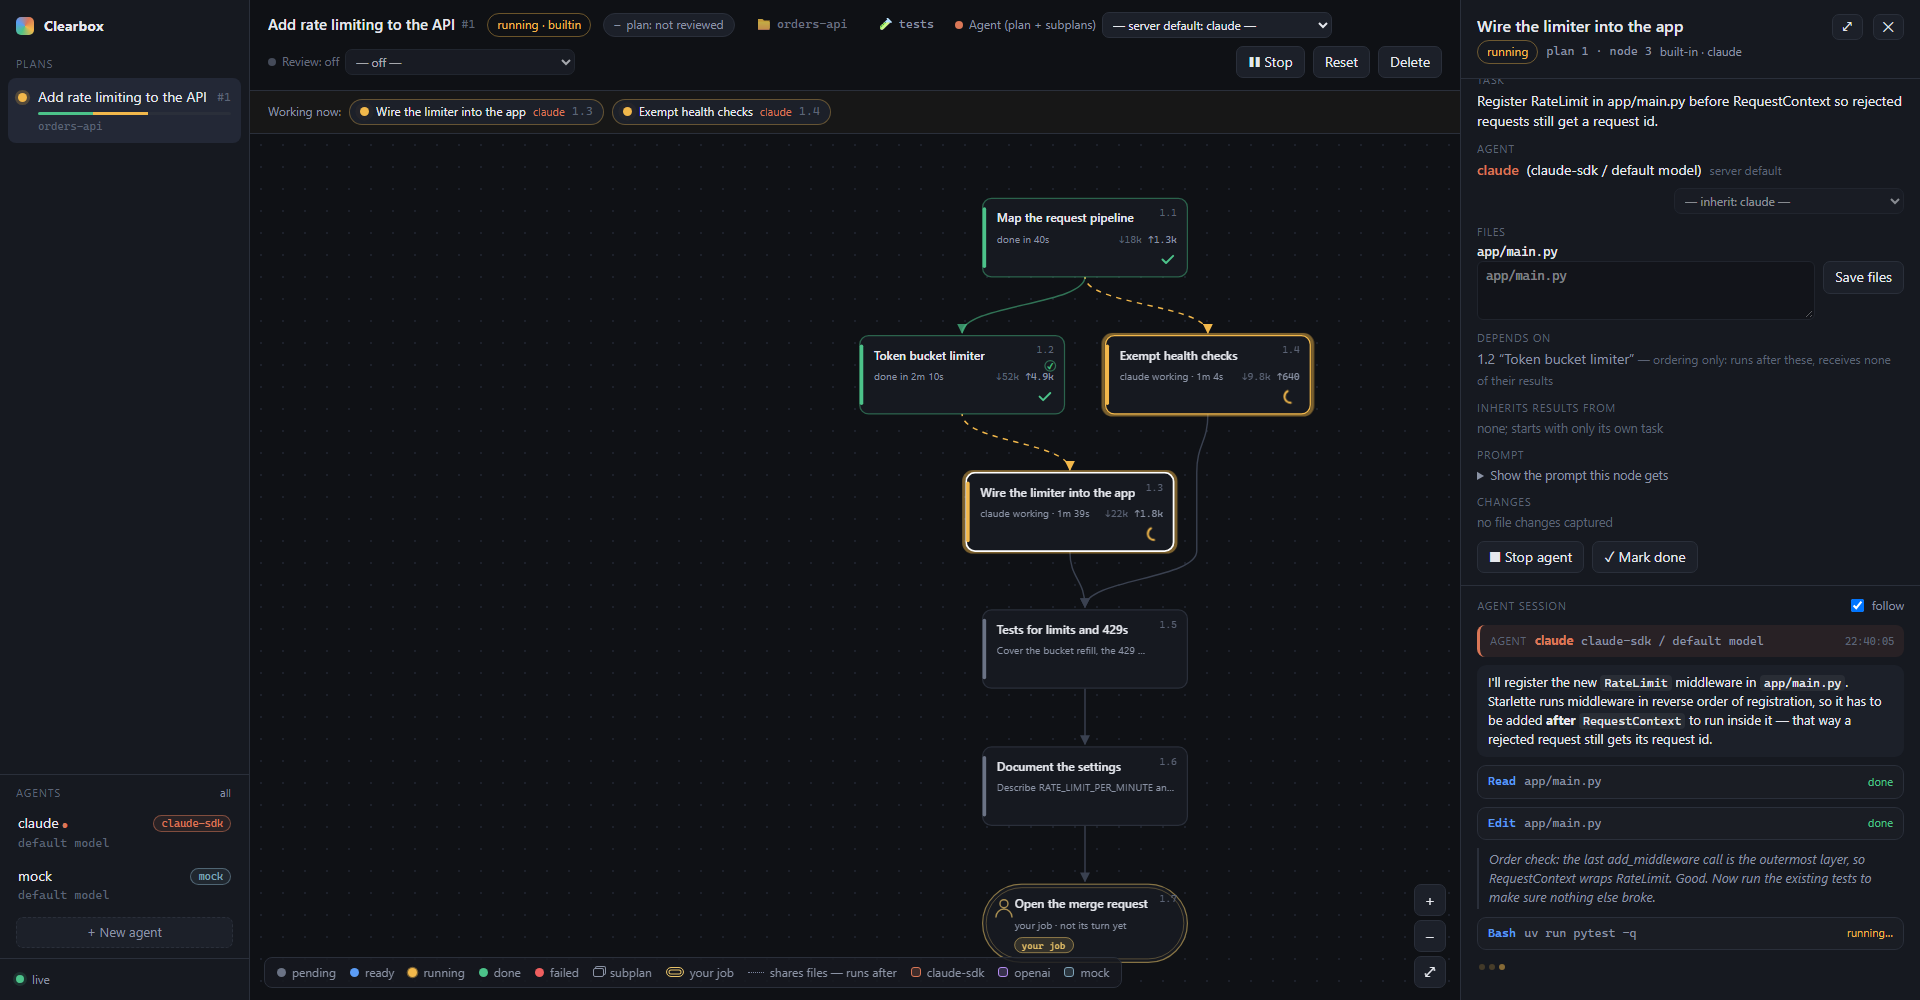
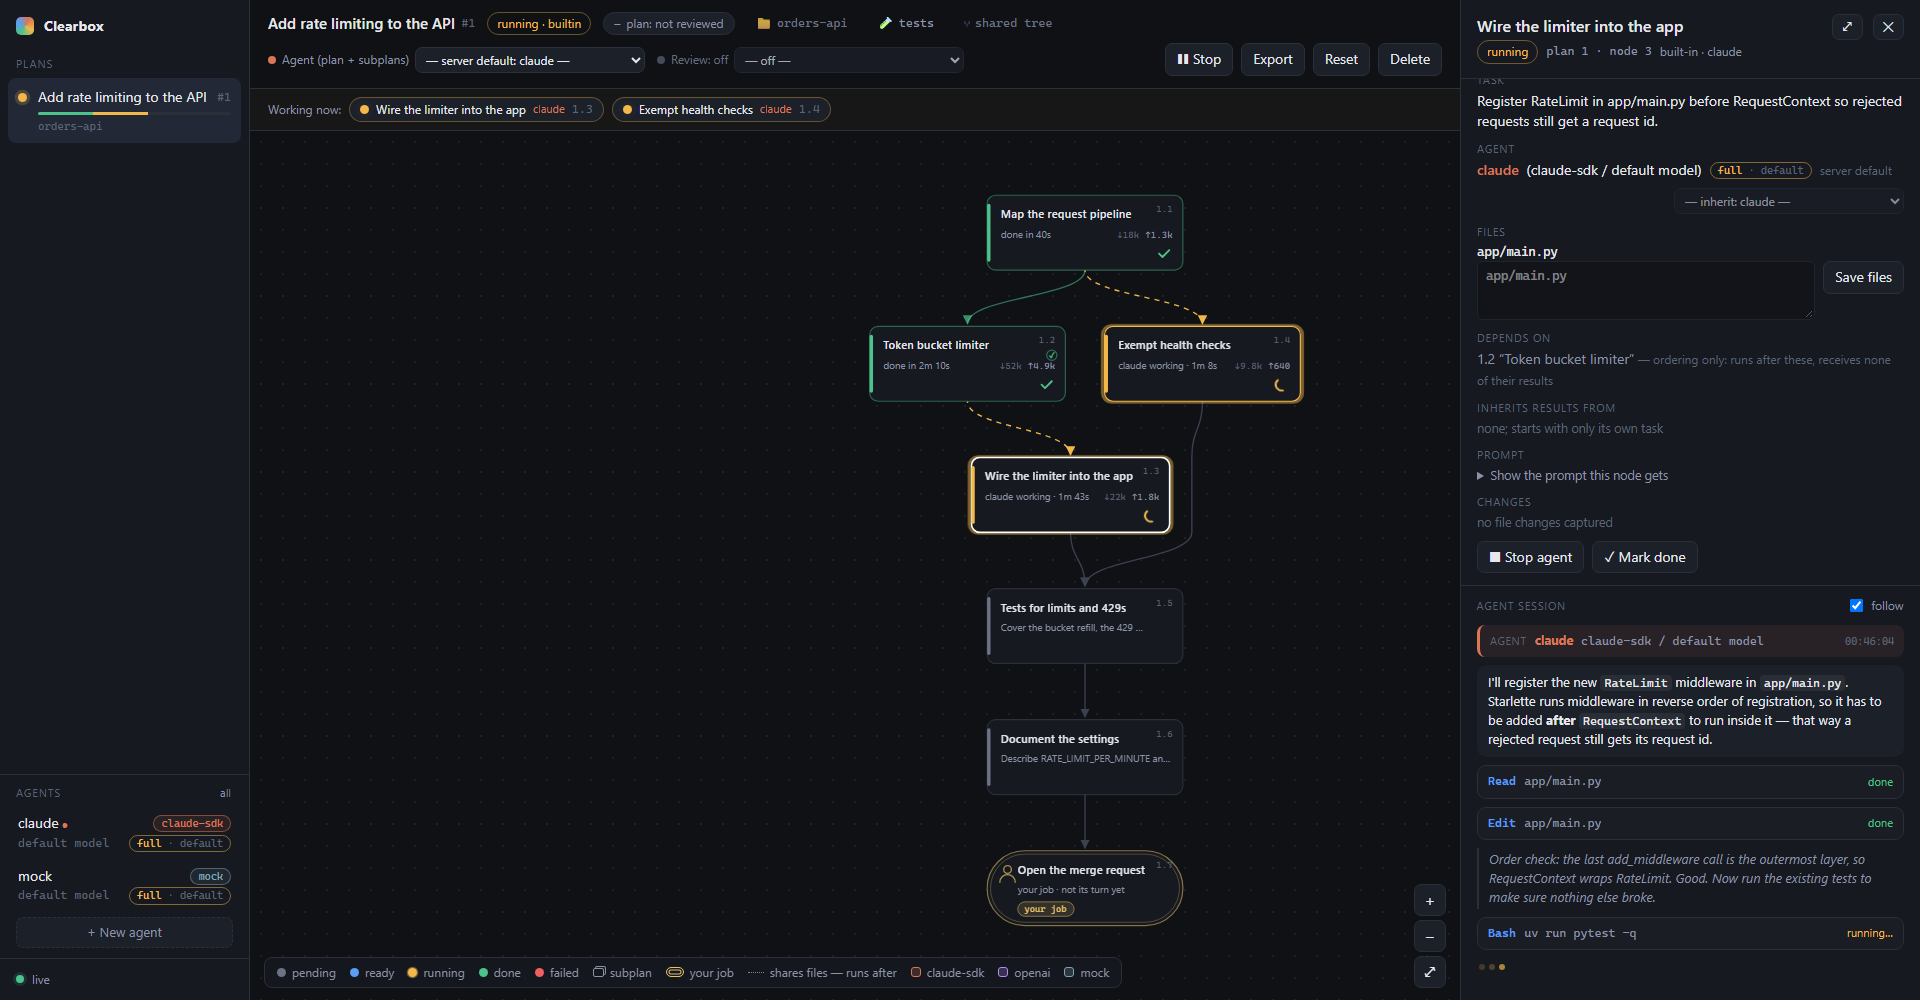
Show an animated demo at the top of the README
A still of the graph does not show what Clearbox is for: watching a
session work through its plan. The new hero GIF plays one session from
submit to the user's step: steps are claimed and finished, two run side
by side, one step's live transcript and another's diff are opened on
the way. The plan, session and review stills are retaken against the
current UI; the plan still is no longer linked since the GIF shows it.

diff --git a/README.md b/README.md
@@ -2,7 +2,7 @@
 
 **Make your coding agent's session observable and reviewable.**
 
-![A plan in Clearbox: two steps done, two in progress, one of them open with its live session](https://raw.githubusercontent.com/KaiHabermann/Clearbox/master/docs/images/plan.png)
+![A session's plan filling in live in Clearbox: steps are claimed and finish one after another, two at once for a while, one step's live session and another's diff open on the way, until only the user's own step is left](https://raw.githubusercontent.com/KaiHabermann/Clearbox/master/docs/images/demo.gif)
 
 A long agent session is hard to follow and harder to review: one scrolling transcript, one big
 diff at the end. Clearbox gives it structure. Your session lays the work out as a plan, a graph of
